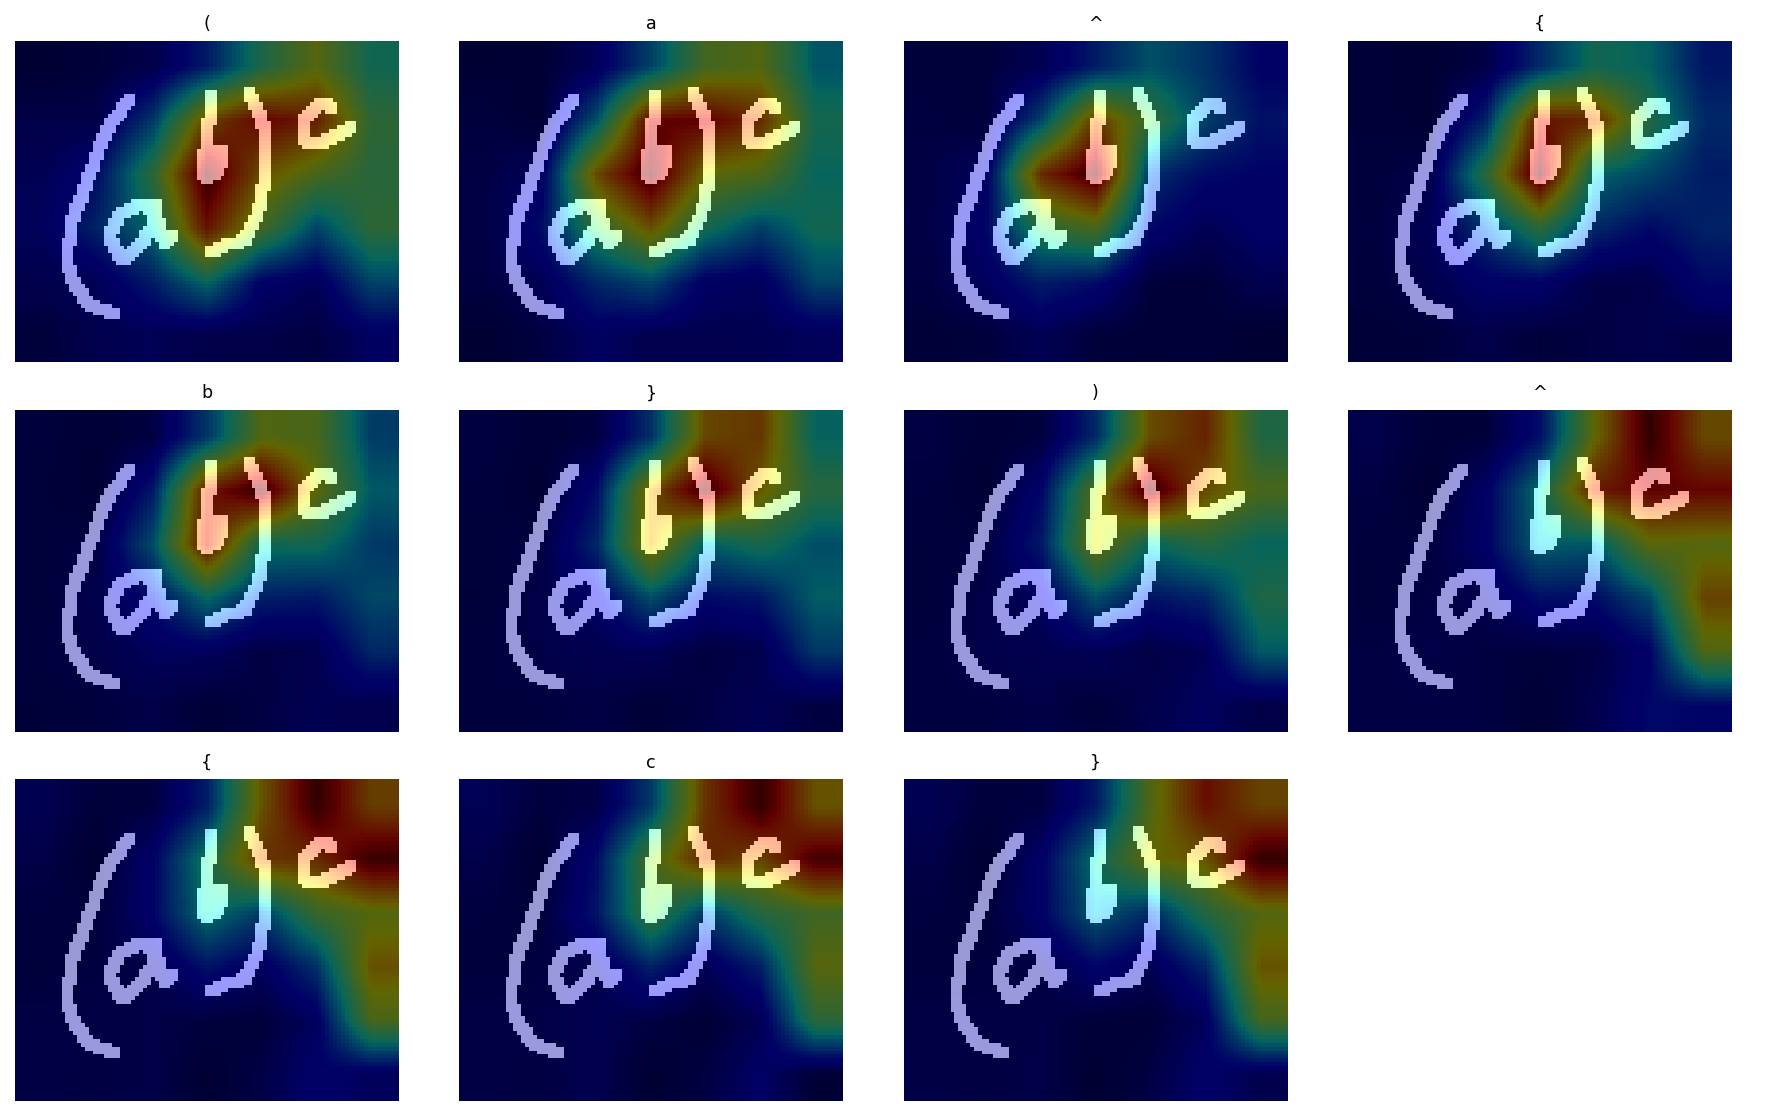
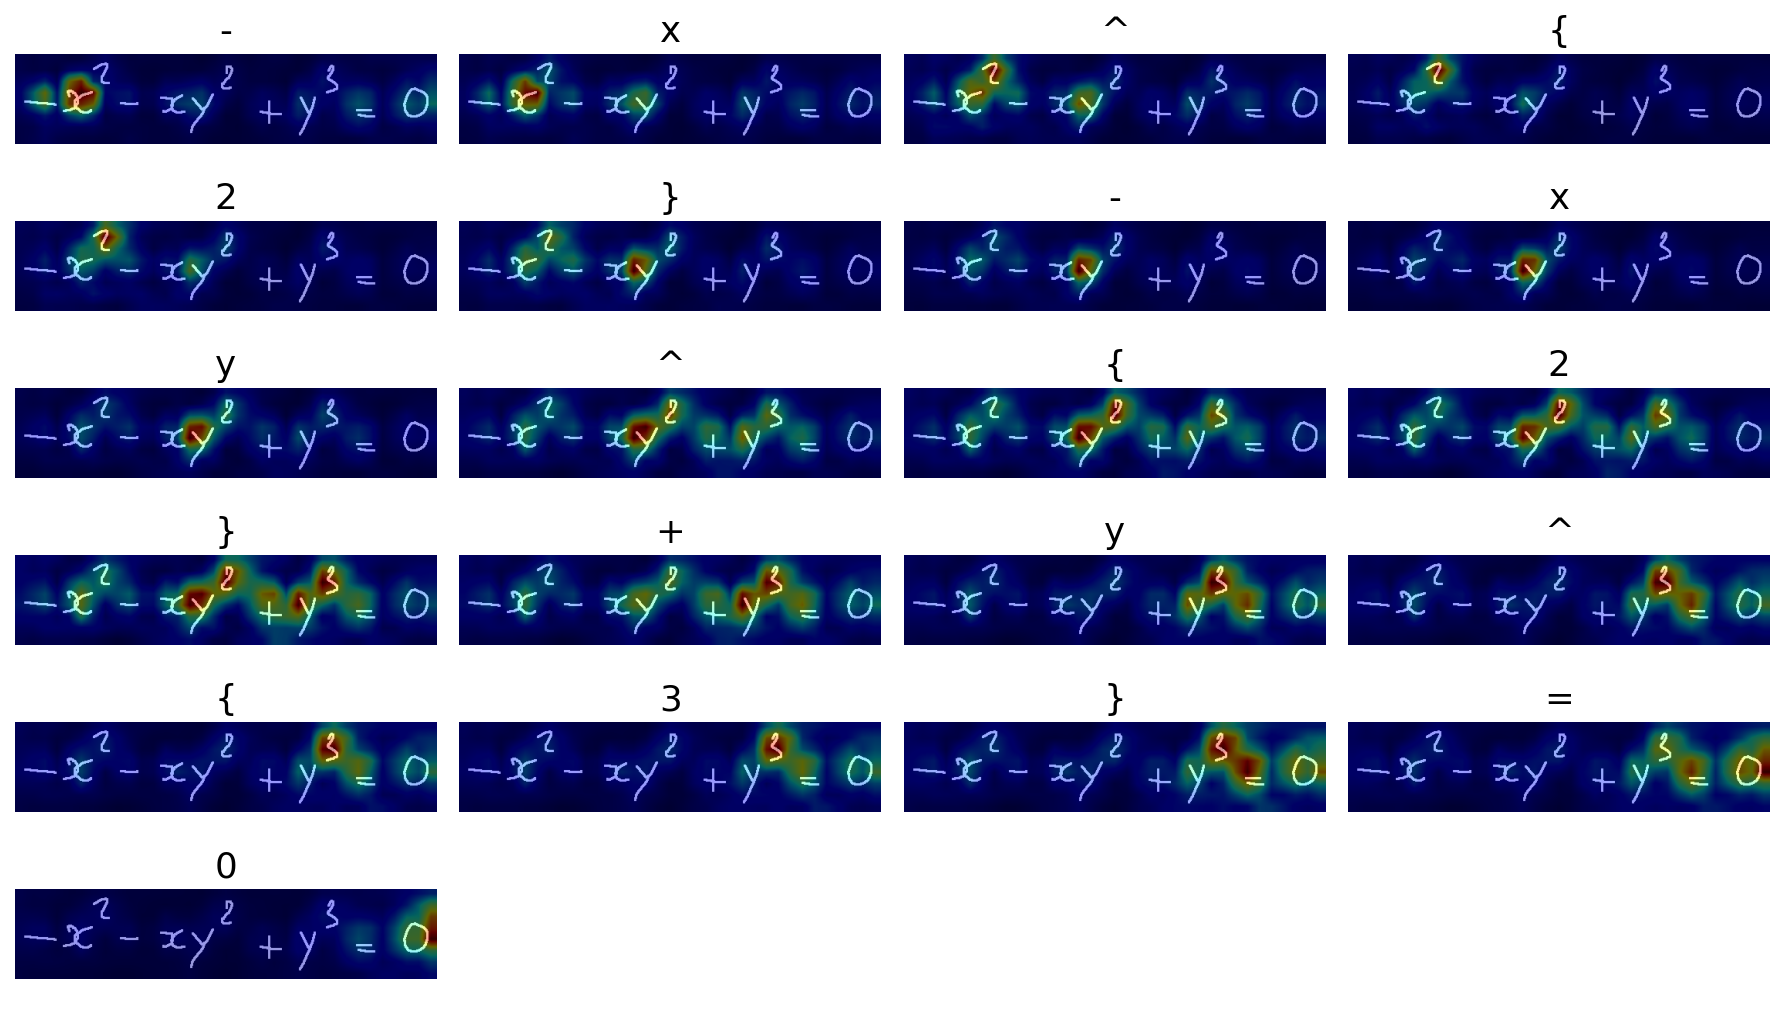
Single Test

diff --git a/models/bttr/ensemble_test_bttr.py b/models/bttr/ensemble_test_bttr.py
@@ -15,10 +15,81 @@ import matplotlib.pyplot as plt
 import numpy as np
 import torch.nn.functional as F
 
+#python models/bttr/ensemble_test_bttr.py
+
+
+# def main():
+#     # Config
+#     checkpoint_path = "checkpoints/bttr_best.pth"
+#     data_root = "resources/CROHME/test"
+#     output_dir = "./inference_results"
+#     beam_size = 10
+#     max_len = 200
+
+#     os.makedirs(output_dir, exist_ok=True)
+
+#     # Load vocab
+#     vocab = CROHMEVocab()
+
+#     # Load dataset
+#     test_dataset = CROHMEDataset(data_root)
+#     test_loader = DataLoader(test_dataset, batch_size=1, shuffle=False, collate_fn=collate_fn)
+
+#     # Load model
+#     model = BTTR(d_model=256, growth_rate=16, num_layers=3, nhead=8, num_decoder_layers=3, dim_feedforward=1024, dropout=0.3).to("cpu")
+#     checkpoint = torch.load(checkpoint_path, map_location="cpu", weights_only=False)
+#     model.load_state_dict(checkpoint['model'])
+#     model.eval()
+
+#     # Inference
+#     with torch.no_grad():
+#         for i, (fnames, imgs, masks, formulas) in enumerate(tqdm(test_loader, desc="Inference")):
+#             if i >= 5:
+#                 break
+#             imgs, masks = imgs.to("cpu"), masks.to("cpu")
+
+#             hypotheses, batch_attention_weights, batch_feature_h, batch_feature_w = beam_search_batch(model, imgs, masks, beam_size=beam_size, max_len=max_len, alpha=1.0, vocab=vocab)
+#             pred_seq = hypotheses[0]
+#             sample_attention_weights = batch_attention_weights[0]
+#             feature_h = batch_feature_h[0]
+#             feature_w = batch_feature_w[0]
+
+#             gt_seq = formulas[0]
+
+#             pred_latex = vocab.indices2label(pred_seq)
+#             with open(os.path.join(output_dir, f"{fnames[0]}.txt"), "w", encoding="utf-8") as f:
+#                 f.write(f"%{fnames[0]}\n${pred_latex}$")
+
+#             # Load original image
+#             original_image_path = os.path.join(data_root, "img", f"{fnames[0]}.bmp")
+#             original_image = Image.open(original_image_path).convert("RGB")
+
+#             # Placeholder for best crop
+#             best_crop = (0, 0, original_image.size[0], original_image.size[1])
+
+#             # Process attention weights for visualization
+#             processed_attention_weights = []
+#             num_layers = len(sample_attention_weights[0])
+#             num_heads = sample_attention_weights[0][0].shape[0]
+
+#             for t in range(len(pred_latex.split())):
+#                 token_attention_weights = [sample_attention_weights[t][layer_idx] for layer_idx in range(num_layers)]
+#                 concatenated_attention = torch.cat(token_attention_weights, dim=0)  # Shape: (num_layers * num_heads, batch_size, 1, source_len)
+#                 averaged_attention = torch.mean(concatenated_attention, dim=(0, 1))  # Average across layers/heads and batch
+#                 averaged_attention = averaged_attention.squeeze()  # Shape: (source_len,)
+#                 processed_attention_weights.append(averaged_attention)
+
+#             # Visualize attention maps
+#             visualize_attention_maps(original_image, processed_attention_weights, pred_latex.split(), best_crop, feature_h, feature_w)
+
+
+
+
 def main():
     # Config
     checkpoint_path = "checkpoints/bttr_best.pth"
-    data_root = "resources/CROHME/test"
+    image_path = "resources/CROHME/test/img/UN_125_em_565.bmp"
+    caption_path = "resources/CROHME/test/caption.txt"
     output_dir = "./inference_results"
     beam_size = 10
     max_len = 200
@@ -28,56 +99,56 @@ def main():
     # Load vocab
     vocab = CROHMEVocab()
 
-    # Load dataset
-    test_dataset = CROHMEDataset(data_root)
-    test_loader = DataLoader(test_dataset, batch_size=1, shuffle=False, collate_fn=collate_fn)
+    # Load formula from caption.txt
+    img_name = "UN_125_em_565"
+    with open(caption_path, "r", encoding="utf-8") as f:
+        lines = [line.strip().split() for line in f]
+    formula_tokens = [tokens[1:] for tokens in lines if tokens[0] == img_name][0]
+
+    # Load image
+    from torchvision.transforms import ToTensor
+    img = Image.open(image_path).convert("L")
+    img_tensor = ToTensor()(img).unsqueeze(0)  # shape: [1, 1, H, W]
+    mask = torch.zeros_like(img_tensor[:, 0], dtype=torch.bool)  # no padding
 
     # Load model
     model = BTTR(d_model=256, growth_rate=16, num_layers=3, nhead=8, num_decoder_layers=3, dim_feedforward=1024, dropout=0.3).to("cpu")
-    checkpoint = torch.load(checkpoint_path, map_location="cpu", weights_only=False)
+    checkpoint = torch.load(checkpoint_path, map_location="cpu")
     model.load_state_dict(checkpoint['model'])
     model.eval()
 
     # Inference
     with torch.no_grad():
-        for i, (fnames, imgs, masks, formulas) in enumerate(tqdm(test_loader, desc="Inference")):
-            if i >= 5:
-                break
-            imgs, masks = imgs.to("cpu"), masks.to("cpu")
+        hypotheses, batch_attention_weights, batch_feature_h, batch_feature_w = beam_search_batch(
+            model, img_tensor, mask, beam_size=beam_size, max_len=max_len, alpha=1.0, vocab=vocab
+        )
+        pred_seq = hypotheses[0]
+        sample_attention_weights = batch_attention_weights[0]
+        feature_h = batch_feature_h[0]
+        feature_w = batch_feature_w[0]
 
-            hypotheses, batch_attention_weights, batch_feature_h, batch_feature_w = beam_search_batch(model, imgs, masks, beam_size=beam_size, max_len=max_len, alpha=1.0, vocab=vocab)
-            pred_seq = hypotheses[0]
-            sample_attention_weights = batch_attention_weights[0]
-            feature_h = batch_feature_h[0]
-            feature_w = batch_feature_w[0]
+        pred_latex = vocab.indices2label(pred_seq)
+        with open(os.path.join(output_dir, f"{img_name}.txt"), "w", encoding="utf-8") as f:
+            f.write(f"%{img_name}\n${pred_latex}$")
 
-            gt_seq = formulas[0]
+        # Prepare attention maps
+        processed_attention_weights = []
+        num_layers = len(sample_attention_weights[0])
+        num_heads = sample_attention_weights[0][0].shape[0]
 
-            pred_latex = vocab.indices2label(pred_seq)
-            with open(os.path.join(output_dir, f"{fnames[0]}.txt"), "w", encoding="utf-8") as f:
-                f.write(f"%{fnames[0]}\n${pred_latex}$")
+        for t in range(len(pred_latex.split())):
+            token_attention_weights = [sample_attention_weights[t][layer_idx] for layer_idx in range(num_layers)]
+            concatenated_attention = torch.cat(token_attention_weights, dim=0)
+            averaged_attention = torch.mean(concatenated_attention, dim=(0, 1))
+            averaged_attention = averaged_attention.squeeze()
+            processed_attention_weights.append(averaged_attention)
 
-            # Load original image
-            original_image_path = os.path.join(data_root, "img", f"{fnames[0]}.bmp")
-            original_image = Image.open(original_image_path).convert("RGB")
+        # Visualize
+        visualize_attention_maps(img.convert("RGB"), processed_attention_weights, pred_latex.split(),
+                                 best_crop=(0, 0, img.size[0], img.size[1]),
+                                 feature_h=feature_h, feature_w=feature_w)
 
-            # Placeholder for best crop
-            best_crop = (0, 0, original_image.size[0], original_image.size[1])
 
-            # Process attention weights for visualization
-            processed_attention_weights = []
-            num_layers = len(sample_attention_weights[0])
-            num_heads = sample_attention_weights[0][0].shape[0]
-
-            for t in range(len(pred_latex.split())):
-                token_attention_weights = [sample_attention_weights[t][layer_idx] for layer_idx in range(num_layers)]
-                concatenated_attention = torch.cat(token_attention_weights, dim=0)  # Shape: (num_layers * num_heads, batch_size, 1, source_len)
-                averaged_attention = torch.mean(concatenated_attention, dim=(0, 1))  # Average across layers/heads and batch
-                averaged_attention = averaged_attention.squeeze()  # Shape: (source_len,)
-                processed_attention_weights.append(averaged_attention)
-
-            # Visualize attention maps
-            visualize_attention_maps(original_image, processed_attention_weights, pred_latex.split(), best_crop, feature_h, feature_w)
 
 def visualize_attention_maps(orig_image: Image, alphas, latex_tokens, best_crop, feature_h, feature_w, max_cols=4):
     '''
@@ -90,7 +161,7 @@ def visualize_attention_maps(orig_image: Image, alphas, latex_tokens, best_crop,
     num_cols = min(max_cols, num_tokens)
     num_rows = int(np.ceil(num_tokens / num_cols))
 
-    fig, axes = plt.subplots(num_rows, num_cols, figsize=(num_cols * 3, num_rows * 3 * orig_h / orig_w))
+    fig, axes = plt.subplots(num_rows, num_cols, figsize=(num_cols * 3, int(num_rows * 6 * orig_h / orig_w)))
     axes = np.array(axes).reshape(-1)
 
     for i, (token, alpha) in enumerate(zip(latex_tokens, alphas)):
@@ -109,7 +180,7 @@ def visualize_attention_maps(orig_image: Image, alphas, latex_tokens, best_crop,
 
         ax.imshow(orig_image)
         ax.imshow(alpha, cmap='jet', alpha=0.4)
-        ax.set_title(f'{token}', fontsize=10 * orig_h / orig_w)
+        ax.set_title(f'{token}', fontsize=10 * 8 * orig_h / orig_w)
         ax.axis('off')
 
     for j in range(i + 1, len(axes)):

diff --git a/models/bttr/pos_enc.py b/models/bttr/pos_enc.py
@@ -16,7 +16,7 @@ class WordPosEnc(nn.Module):
 
     def forward(self, x):
         _, seq_len, _ = x.size()
-        return x + self.pe[:seq_len, :].unsqueeze(0)
+        return x + self.pe[:seq_len, :].unsqueeze(0) # (batch_size, seq_len, d_model)
 
 class ImgPosEnc(nn.Module):
     def __init__(self, d_model, temperature=10000.0, normalize=False):
@@ -36,7 +36,7 @@ class ImgPosEnc(nn.Module):
             y_embed = y_embed / (y_embed[:, -1:, :] + eps) * 2 * math.pi
             x_embed = x_embed / (x_embed[:, :, -1:] + eps) * 2 * math.pi
 
-        dim_t = torch.arange(self.half_d_model // 2, dtype=torch.float32, device=x.device)
+        dim_t = torch.arange(self.half_d_model // 2, dtype=torch.float32, device=x.device) #Calculate inversed frequency
         inv_freq = 1.0 / (self.temperature ** (dim_t / (self.half_d_model // 2)))
 
         pos_x = torch.einsum('b h w, d -> b h w d', x_embed, inv_freq)

diff --git a/models/bttr/train_bttr.py b/models/bttr/train_bttr.py
@@ -14,7 +14,6 @@ from beam_search import beam_search_batch
 
 DEVICE = torch.device("cuda" if torch.cuda.is_available() else "cpu")
 vocab = CROHMEVocab()
-DEVICE = torch.device("cuda" if torch.cuda.is_available() else "cpu")
 # wandb.login(
 #     key = os.getenv("WANDB_KEY"),
 # )
@@ -30,8 +29,8 @@ def main():
     # Configs
     train_root = "resources/CROHME/train"
     val_root = "resources/CROHME/val"
-    batch_size = 8
-    num_epochs = 50
+    batch_size = 32
+    num_epochs = 100
     learning_rate = 1.0
     patience = 10
     checkpoint_dir = "checkpoints"
